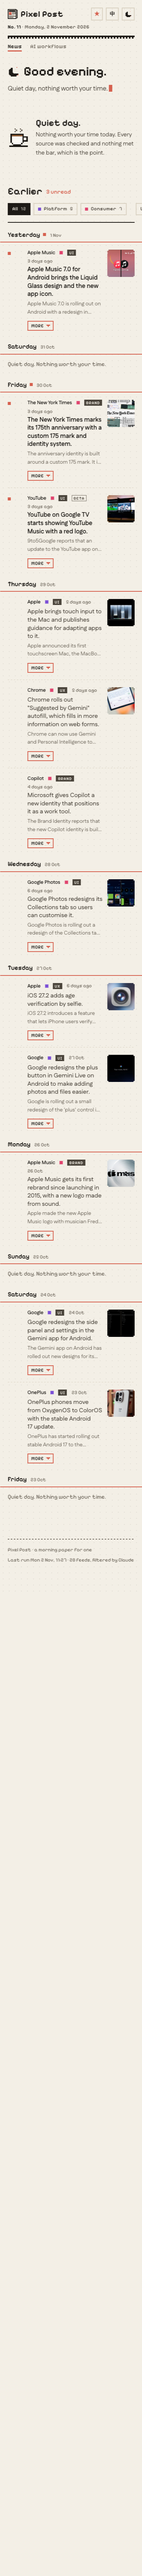
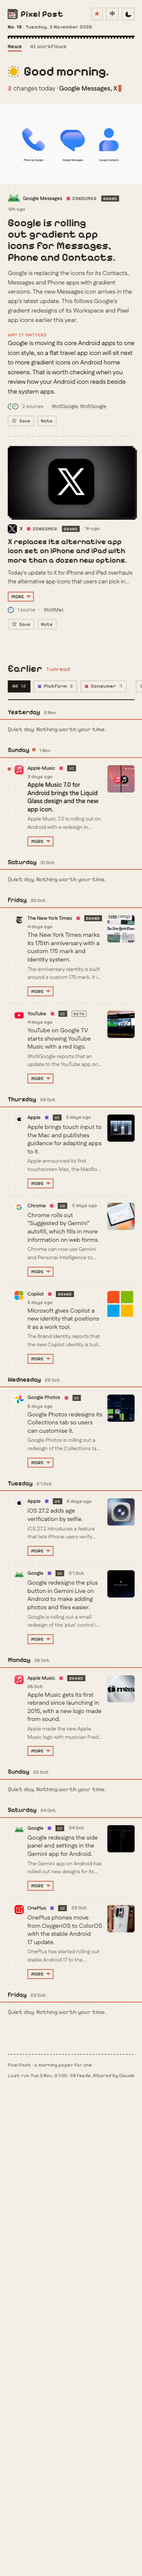
Today: one story per row, text left and its own picture right; every story gets its picture

Changed region(s): [[0.0, 0.0, 1.0, 0.7794], [0.7333, 0.3429, 0.968, 0.7482]]

diff --git a/site/styles.css b/site/styles.css
@@ -685,32 +685,30 @@ button {
 /* ---------- today ---------- */
 
 .today {
-  display: grid;
-  grid-template-columns: repeat(12, minmax(0, 1fr));
-  gap: clamp(28px, 4vw, 48px) clamp(24px, 3vw, 40px);
-}
-
-.lead {
-  grid-column: span 8;
-}
-.side {
-  grid-column: span 4;
   display: flex;
   flex-direction: column;
-  gap: 28px;
 }
-.today.solo .lead {
-  grid-column: 1 / -1;
+/* One story per row: text left, its own picture right. A dotted rule between rows, as in Earlier. */
+.story {
   display: grid;
-  grid-template-columns: minmax(0, 1.25fr) minmax(0, 1fr);
-  gap: 40px;
+  grid-template-columns: minmax(0, 1fr) minmax(0, 0.62fr);
+  gap: 0 clamp(24px, 3.5vw, 48px);
   align-items: start;
+  padding: clamp(26px, 3.5vw, 40px) 0;
 }
-.cards {
-  grid-column: 1 / -1;
-  display: grid;
-  grid-template-columns: repeat(3, minmax(0, 1fr));
-  gap: 40px 32px;
+.story + .story,
+.pattern + .story {
+  background: repeating-linear-gradient(90deg, var(--line) 0 var(--px), transparent var(--px) calc(var(--px) * 2)) top / 100% 2px no-repeat;
+}
+.story.lead {
+  grid-template-columns: minmax(0, 1fr) minmax(0, 1.15fr);
+  padding-top: 0;
+}
+.story-text {
+  min-width: 0;
+}
+.story > .frame {
+  margin: 0;
 }
 
 .media {
@@ -811,9 +809,6 @@ button {
   mix-blend-mode: multiply;
 }
 
-.lead .frame {
-  margin-bottom: 26px;
-}
 .lead .meta {
   margin-bottom: 14px;
 }
@@ -896,16 +891,10 @@ button {
 .card .meta {
   margin: 0 0 10px;
 }
-.card .frame {
-  margin-bottom: 18px;
-}
 .headline {
   margin: 0;
-  font: 600 20px/1.22 var(--display);
+  font: 600 clamp(20px, 2vw, 24px)/1.22 var(--display);
   text-wrap: balance;
-}
-.side .headline {
-  font-size: 21px;
 }
 .card .why {
   margin-top: 12px;
@@ -913,10 +902,6 @@ button {
 }
 .card .sources {
   margin-top: 12px;
-}
-.side .card + .card {
-  padding-top: 28px;
-  background: repeating-linear-gradient(90deg, var(--line) 0 var(--px), transparent var(--px) calc(var(--px) * 2)) top / 100% 2px no-repeat;
 }
 
 /* More / Less: an outlined chip in the accent colour, with a pixel chevron that flips when open. */
@@ -1614,24 +1599,8 @@ html:lang(zh-CN) .row-title {
 }
 
 @media (max-width: 960px) {
-  .lead,
-  .side {
-    grid-column: 1 / -1;
-  }
-  .side {
-    display: grid;
-    grid-template-columns: repeat(2, minmax(0, 1fr));
-    gap: 32px;
-  }
-  .side .card + .card {
-    padding-top: 0;
-    background: none;
-  }
-  .cards {
-    grid-template-columns: repeat(2, minmax(0, 1fr));
-  }
-  .today.solo .lead {
-    display: block;
+  .story.lead {
+    grid-template-columns: minmax(0, 1fr) minmax(0, 0.9fr);
   }
 }
 
@@ -1696,7 +1665,19 @@ html:lang(zh-CN) .row-title {
   .hello-title {
     gap: 12px;
   }
-  .lead .frame {
+  .story,
+  .story.lead {
+    grid-template-columns: minmax(0, 1fr);
+    padding: 26px 0;
+  }
+  .story.lead {
+    padding-top: 0;
+  }
+  .story > .frame {
+    order: -1;
+    margin-bottom: 18px;
+  }
+  .lead > .frame {
     margin: 0 calc(var(--gutter) * -1) 22px;
   }
   .lead .frame::before {
@@ -1707,29 +1688,6 @@ html:lang(zh-CN) .row-title {
   }
   .lead-what {
     font-size: 16px;
-  }
-  .side,
-  .cards {
-    grid-template-columns: 1fr;
-    gap: 0;
-  }
-  .side .card,
-  .cards .card {
-    padding: 26px 0;
-    background: repeating-linear-gradient(90deg, var(--line) 0 var(--px), transparent var(--px) calc(var(--px) * 2)) top / 100% 2px no-repeat;
-  }
-  .side .card:first-child {
-    padding-top: 26px;
-  }
-  /* Phone cards stay text-first; only real photos are shown, and smaller. */
-  .card .frame {
-    display: none;
-  }
-  .card .frame.photo {
-    display: block;
-  }
-  .today {
-    gap: 28px 0;
   }
   .pattern {
     padding: 18px;

diff --git a/site/app.js b/site/app.js
@@ -534,10 +534,13 @@ function media(item, { reveal = false, ratio } = {}) {
 
 /* ---------- today ---------- */
 
+/*
+ * Every story today is one row: its text on the left, its own picture on the right, so a picture can never sit
+ * beside another story's text. The first story is the same row, larger. Phones stack each picture above its text.
+ */
 function leadHtml(item) {
-  return `<article class="lead reveal" data-id="${esc(item.id)}">
-    ${media(item, { reveal: true })}
-    <div class="lead-text">
+  return `<article class="story lead reveal" data-id="${esc(item.id)}">
+    <div class="story-text">
       ${metaRow(item, true)}
       <h2 class="lead-headline"><a href="${esc(safeUrl(item.sources?.[0]?.url))}" target="_blank" rel="noopener" data-read="${esc(item.id)}">${esc(txt(item, 'headline'))}</a></h2>
       <p class="lead-what">${esc(txt(item, 'what'))}</p>
@@ -545,21 +548,24 @@ function leadHtml(item) {
       ${sources(item)}
       ${actions(item)}
     </div>
+    ${media(item, { reveal: true })}
   </article>`;
 }
 
-function cardHtml(item, i, withMedia) {
-  return `<article class="card reveal" data-id="${esc(item.id)}">
-    ${withMedia ? media(item, { reveal: true }) : ''}
-    ${metaRow(item)}
-    <h3 class="headline"><a href="${esc(safeUrl(item.sources?.[0]?.url))}" target="_blank" rel="noopener" data-read="${esc(item.id)}">${esc(txt(item, 'headline'))}</a></h3>
-    <p class="what clamp">${esc(txt(item, 'what'))}</p>
-    <div class="fold">
-      <div class="more-body" id="more-${esc(item.id)}" hidden><div class="more-in">${why(item)}</div></div>
-      ${moreBtn(`more-${item.id}`)}
+function cardHtml(item) {
+  return `<article class="story card reveal" data-id="${esc(item.id)}">
+    <div class="story-text">
+      ${metaRow(item)}
+      <h3 class="headline"><a href="${esc(safeUrl(item.sources?.[0]?.url))}" target="_blank" rel="noopener" data-read="${esc(item.id)}">${esc(txt(item, 'headline'))}</a></h3>
+      <p class="what clamp">${esc(txt(item, 'what'))}</p>
+      <div class="fold">
+        <div class="more-body" id="more-${esc(item.id)}" hidden><div class="more-in">${why(item)}</div></div>
+        ${moreBtn(`more-${item.id}`)}
+      </div>
+      ${sources(item)}
+      ${actions(item)}
     </div>
-    ${sources(item)}
-    ${actions(item)}
+    ${media(item, { reveal: true })}
   </article>`;
 }
 
@@ -588,17 +594,7 @@ function renderToday(day) {
     return;
   }
   const [lead, ...rest] = day.items;
-  // Two stories beside the lead, the rest in rows of three. Take a third beside the lead rather than leave one card alone on a row.
-  const sideCount = rest.length - 2 > 1 && (rest.length - 2) % 3 === 1 ? 3 : 2;
-  const side = rest.slice(0, sideCount);
-  const cards = rest.slice(sideCount);
-  el.classList.toggle('solo', day.items.length === 1);
-  el.innerHTML = [
-    leadHtml(lead),
-    side.length ? `<div class="side">${side.map((it, i) => cardHtml(it, i + 1, false)).join('')}</div>` : '',
-    day.pattern ? patternHtml(patternOf(day)) : '',
-    cards.length ? `<div class="cards">${cards.map((it, i) => cardHtml(it, i + sideCount + 1, true)).join('')}</div>` : '',
-  ].join('');
+  el.innerHTML = [leadHtml(lead), day.pattern ? patternHtml(patternOf(day)) : '', ...rest.map(cardHtml)].join('');
 }
 
 /* ---------- archive ---------- */
